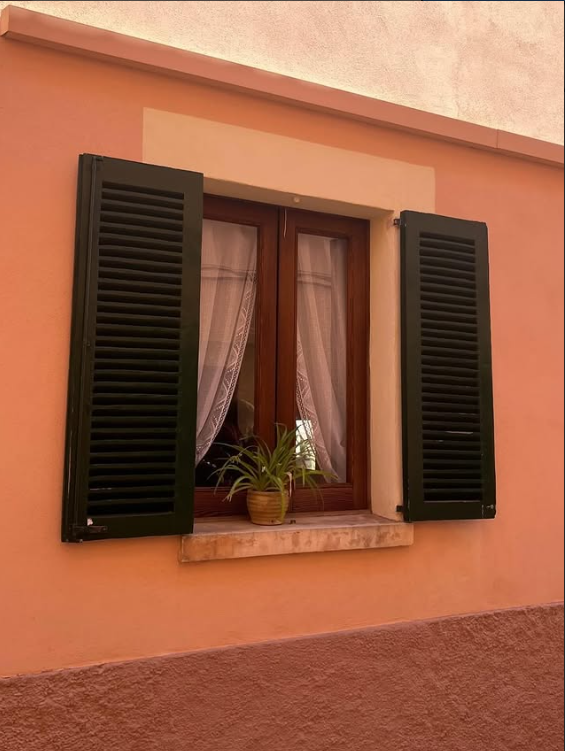
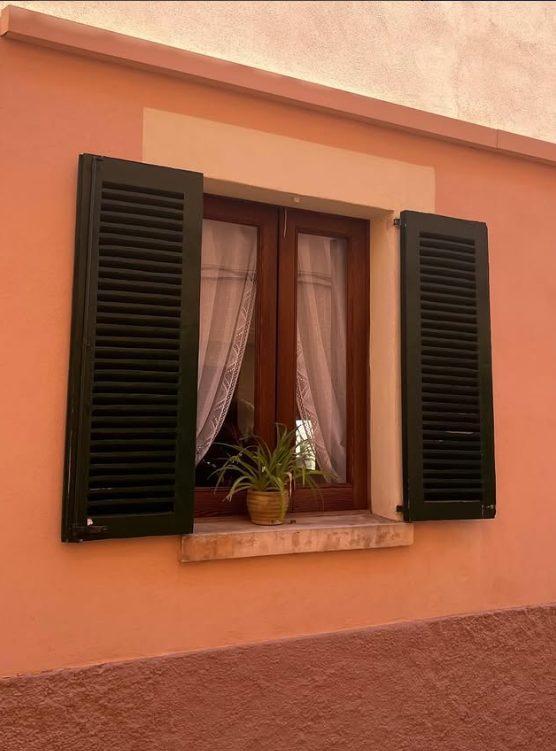
Maj skal lige tjekke

diff --git a/src/pages/About.js b/src/pages/About.js
@@ -5,15 +5,15 @@ import arrowBack from "../photo/arrowback.png";
 import a1 from "../photo/insta0.png";
 import a2 from "../photo/insta1.png";
 import a3 from "../photo/insta2.png";
-import a4 from "../photo/insta3.png";
+import a4 from "../photo/insta9.png";
 import a5 from "../photo/insta4.png";
 import a6 from "../photo/insta5.png";
 import a7 from "../photo/insta6.png";
 import a8 from "../photo/insta7.png";
 import a9 from "../photo/insta8.png";
-import a10 from "../photo/insta9.png";
+import a10 from "../photo/insta9.jpg";
 
-const images = [a1, a2, a3, a4, a5, a6, a7, a8, a9, a10];
+const images = [a1, a2, a3, a10, a5, a6, a7, a8, a9, a4];
 
 export default function About() {
   return (
@@ -33,14 +33,22 @@ export default function About() {
         {/* HØJRE: tekst */}
         <div className="aboutText">
           <p>
-            Hej! Jeg hedder Maja Nygaard Johansen. Jeg arbejder med branding og
-            marketing management og elsker at skabe visuelle universer og kampagner.
+            Hi, I’m Maja Nygaard Johansen and I’ve always been drawn to the way brands feel, not just how they look.
           </p>
           <p>
-            Her kan der står en helt masse mere
+            With a background in Design and Business, specializing in Branding and Marketing Management, I work in the intersection between creativity and strategy. I love building visual universes, shaping brand identities and creating campaigns that people actually connect with instead of just scrolling past.
           </p>
           <p>
-            Her kan der står en helt masse mere
+            I’m especially inspired by fashion and lifestyle, where aesthetics, storytelling and emotion come together. For me it is all about the details, the tone, the feeling and the consistency that turn a brand into an experience.
+          </p>
+          <p>
+            My approach is intuitive but grounded in strategy. I enjoy diving into a brand’s DNA, understanding its potential and translating that into strong visual concepts and cohesive communication across platforms.
+          </p>
+          <p>
+            I have hands on experience with marketing and ecommerce, which means I do not just think in ideas, I think in results. I care about creating work that is not only visually appealing but also meaningful and effective.
+          </p>
+          <p>
+            Outside of work I find inspiration in everyday moments, travels, aesthetics and the people around me, all of which influence the way I see and create brands.
           </p>
         </div>
       </div>

diff --git a/src/components/Footer.js b/src/components/Footer.js
@@ -18,8 +18,8 @@ export default function Footer() {
         <div className="footerCenter">© 2026 All rights reserved</div>
 
         <div className="footerRight">
-          <div>majan johansen@uio.dk</div>
-          <div>+45 00 00 00 00</div>
+          <div>majanj@outlook.dk</div>
+          <div>+45 61 79 02 91</div>
         </div>
       </div>
     </footer>

diff --git a/src/pages/About.css b/src/pages/About.css
@@ -64,9 +64,9 @@
 
 .aboutText p {
   margin: 0 0 14px 0;
-  font-size: 16px;
+  font-size: 13px;
   line-height: 1.7;
-  color: #111;
+  color: #000000;
   opacity: 0.9;
 }
 
